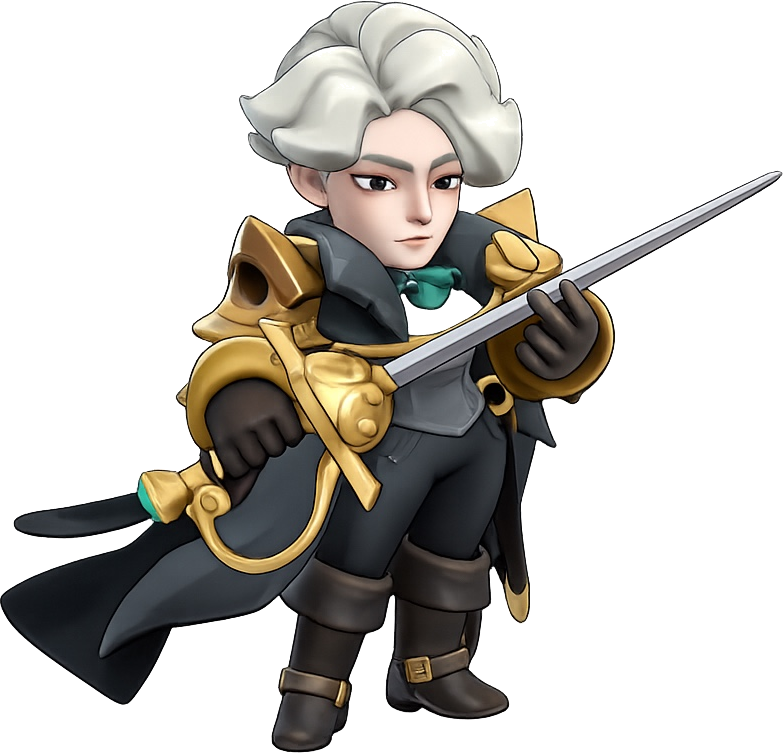
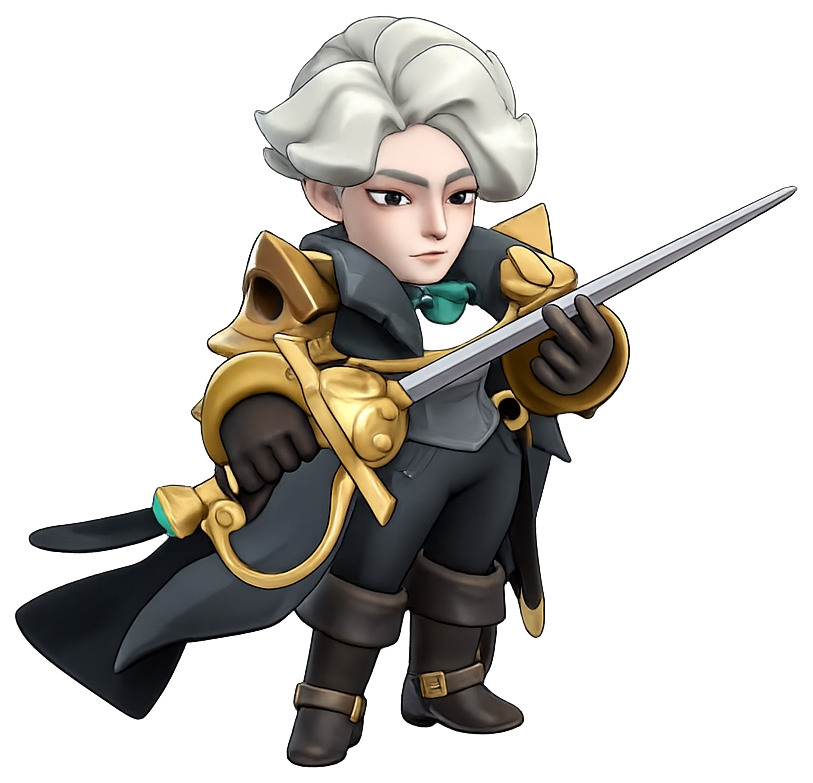
Add files via upload

Changed region(s): [[0.0, 0.0, 1.0, 1.0], [0.5211, 0.6414, 0.5517, 0.672], [0.5211, 0.4887, 0.5517, 0.5193]]

diff --git a/masters/index.html b/masters/index.html
@@ -27,7 +27,7 @@
 :root{color-scheme:dark;--bg:#06101e;--glass:rgba(15,31,51,.62);--glass2:rgba(9,22,39,.72);--line:rgba(255,255,255,.11);--text:#f7fbff;--muted:#9fb0c6;--gold:#ffc85c;--cyan:#58d6ff;--green:#6ce4ad;--red:#ff8190;--shadow:0 16px 45px rgba(0,0,0,.28);--r:18px}
 *{box-sizing:border-box}html{background:var(--bg);scroll-behavior:smooth}body{margin:0;min-height:100vh;min-height:100dvh;color:var(--text);font-family:Inter,system-ui,-apple-system,"Segoe UI",Tahoma,Arial,sans-serif;background:radial-gradient(circle at 8% 0%,rgba(88,214,255,.13),transparent 28%),radial-gradient(circle at 92% 8%,rgba(255,200,92,.12),transparent 26%),linear-gradient(160deg,#07111f,#0a1728 52%,#07111f);overflow-x:hidden}button,input,select{font:inherit}button{cursor:pointer;touch-action:manipulation}.app{width:min(100% - 22px,1280px);margin:auto;padding:12px 0 calc(18px + env(safe-area-inset-bottom))}.glass{background:var(--glass);border:1px solid var(--line);box-shadow:var(--shadow);backdrop-filter:blur(18px);-webkit-backdrop-filter:blur(18px)}
 .top{position:sticky;top:0;z-index:20;display:flex;align-items:center;justify-content:space-between;gap:12px;padding:10px 0;background:linear-gradient(var(--bg) 65%,transparent)}.top-actions{display:flex;align-items:center;gap:8px}.home-btn{width:40px;height:40px;display:grid;place-items:center;border:1px solid var(--line);border-radius:12px;background:var(--glass2);color:var(--text);text-decoration:none}.home-btn svg{width:20px;height:20px;display:block}.brand{font-weight:950;letter-spacing:.2px}.brand small{display:block;color:var(--muted);font-size:10px;margin-top:2px}.lang{width:104px;min-width:104px;height:40px;border-radius:12px;border:1px solid var(--line);background:var(--glass2);color:var(--text);padding:0 24px 0 8px;font-size:12px;font-weight:800;text-align:center;text-align-last:center;outline:none}
-.hero{display:grid;grid-template-columns:190px 1fr;align-items:center;gap:16px;border-radius:22px;padding:14px;overflow:hidden}.hero-art{height:185px;display:grid;place-items:center;background:radial-gradient(circle,rgba(255,200,92,.18),transparent 68%);border-radius:18px}.hero-art img{max-width:100%;max-height:185px;object-fit:contain}.hero h1{font-size:34px;margin:0 0 3px}.hero-sub{color:var(--gold);font-weight:850;font-size:13px}
+.hero{display:grid;grid-template-columns:190px 1fr;align-items:center;gap:16px;border-radius:22px;padding:14px;overflow:hidden}.hero-art{height:185px;display:grid;place-items:center;background:radial-gradient(circle,rgba(255,200,92,.18),transparent 68%);border-radius:18px}.hero-art img{max-width:100%;max-height:185px;object-fit:contain;object-position:center bottom}.hero h1{font-size:34px;margin:0 0 3px}.hero-sub{color:var(--gold);font-weight:850;font-size:13px}
 .layout{display:grid;grid-template-columns:minmax(0,1.4fr) minmax(300px,.6fr);gap:12px;margin-top:12px;align-items:start}.main{display:grid;gap:12px}.card{border-radius:var(--r);padding:14px}.head{display:flex;align-items:center;justify-content:space-between;gap:10px;margin-bottom:12px}.head h2{font-size:17px;margin:0}.hint{font-size:10px;color:var(--muted)}.two{display:grid;grid-template-columns:1fr 1fr;gap:10px}.field label{display:block;color:var(--muted);font-size:11px;font-weight:750;margin:0 0 6px;line-height:1.35}.field input,.field select{width:100%;height:45px;border-radius:12px;border:1px solid var(--line);background:rgba(2,13,25,.68);color:var(--text);padding:0 12px;font-size:16px;outline:none}.field input:focus,.field select:focus{border-color:var(--cyan);box-shadow:0 0 0 3px rgba(88,214,255,.10)}.level-meta{display:flex;gap:8px;margin-top:9px}.meta{flex:1;border:1px solid var(--line);border-radius:11px;padding:8px 10px;background:rgba(255,255,255,.035)}.meta span{display:block;font-size:9px;color:var(--muted);margin-bottom:3px}.meta b{font-size:14px}.gift-row{display:grid;grid-template-columns:repeat(3,1fr);gap:8px;margin-top:12px}.gift{display:grid;grid-template-columns:58px 1fr;align-items:center;gap:8px;border:1px solid var(--line);background:rgba(255,255,255,.035);border-radius:14px;padding:9px;min-width:0}.gift img{width:58px;height:58px;object-fit:contain}.gift-name{font-size:11px;font-weight:850;line-height:1.25}.gift-value{color:var(--gold);font-size:9px;margin:3px 0 6px}.gift input{width:100%;height:36px;border:1px solid var(--line);border-radius:9px;background:rgba(1,10,20,.7);color:white;padding:0 9px;font-size:16px}.metrics{display:grid;grid-template-columns:repeat(3,1fr);gap:8px;margin-top:10px}.metric{border:1px solid var(--line);background:rgba(1,12,23,.55);border-radius:12px;padding:9px 10px}.metric span{display:block;color:var(--muted);font-size:9px;margin-bottom:4px}.metric b{font-size:15px}.green{color:var(--green)}.resource{display:grid;grid-template-columns:72px 1fr;gap:10px;align-items:center}.resource>img{width:72px;height:72px;object-fit:contain}.emblem-box{display:grid;grid-template-columns:72px minmax(0,1fr);gap:10px;align-items:center;margin-top:11px;border:1px solid var(--line);background:rgba(255,255,255,.035);border-radius:14px;padding:10px}.emblem-box>img{width:72px;height:72px;object-fit:contain}.emblem-grid{display:grid;grid-template-columns:repeat(3,1fr);gap:8px}.emblem-field{grid-column:1/-1}.emblem-field label{display:block;color:var(--muted);font-size:10px;font-weight:750;margin-bottom:5px}.emblem-field input{width:100%;height:40px;border-radius:10px;border:1px solid var(--line);background:rgba(1,10,20,.7);color:white;padding:0 10px;font-size:16px}.tabs{display:grid;grid-template-columns:repeat(2,1fr);gap:7px;margin-bottom:12px}.tab{min-height:48px;border:1px solid var(--line);border-radius:11px;background:rgba(1,12,23,.55);color:var(--muted);font-weight:850;font-size:11px;padding:7px 9px;line-height:1.25}.tab.active{background:linear-gradient(135deg,rgba(255,200,92,.95),rgba(255,158,65,.9));color:#2c1b04;border-color:transparent}.skill-detail{border:1px solid var(--line);background:rgba(255,255,255,.035);border-radius:14px;padding:12px;margin:0 0 11px}.skill-detail h3{margin:0;font-size:16px;color:var(--gold)}.skill-detail p{margin:6px 0 0;color:var(--muted);font-size:11px;line-height:1.55}.gain-box{margin-top:10px;border:1px solid rgba(108,228,173,.26);background:rgba(108,228,173,.075);border-radius:12px;padding:10px 12px}.gain-box span{display:block;color:var(--muted);font-size:10px;margin-bottom:4px}.gain-box b{font-size:16px;color:var(--green)}.add{width:100%;height:41px;margin-top:10px;border:0;border-radius:11px;background:linear-gradient(135deg,#35c695,#318fdc);color:white;font-weight:900}.add.secondary{background:rgba(255,255,255,.07);border:1px solid var(--line)}
 
 
@@ -38,7 +38,7 @@
 @media(max-width:920px){.layout{grid-template-columns:1fr}.side{position:static}.plans{max-height:none}.hero{grid-template-columns:160px 1fr}.hero-art{height:160px}.hero-art img{max-height:160px}}
 @media(max-width:620px){.glass{backdrop-filter:blur(12px);-webkit-backdrop-filter:blur(12px)}.materials-panel{padding:11px}.materials-grid{grid-template-columns:1fr 1fr}.material-item{grid-template-columns:48px minmax(0,1fr);padding:8px}.material-item img{width:48px;height:48px}.material-item:last-child{grid-column:1/-1}.material-item:last-child{grid-template-columns:48px minmax(0,1fr)}.app{width:min(100% - 16px,1280px);padding-top:6px}.top{padding:7px 0}.hero{grid-template-columns:105px 1fr;padding:10px;gap:10px}.hero-art{height:120px}.hero-art img{max-height:120px}.hero h1{font-size:25px}.card{padding:11px}.gift-row{grid-template-columns:1fr}.gift{grid-template-columns:54px minmax(0,1fr) 90px}.gift img{width:54px;height:54px}.gift input{height:39px}.metrics{grid-template-columns:1fr 1fr}.metrics .metric:last-child{grid-column:1/-1}.tabs{gap:4px}.tab{font-size:10px}.footer{padding:12px 8px}.lang{width:96px;min-width:96px;font-size:11px}.home-btn{width:38px;height:38px}}
 @media(max-width:390px){.materials-grid{grid-template-columns:1fr}.material-item:last-child{grid-column:auto}.material-item{grid-template-columns:52px minmax(0,1fr)}.two{grid-template-columns:1fr}.resource{grid-template-columns:58px 1fr}.resource>img{width:58px;height:58px}.emblem-box{grid-template-columns:58px 1fr}.emblem-box>img{width:58px;height:58px}.gift{grid-template-columns:48px 1fr}.gift img{width:48px;height:48px}.gift input{grid-column:1/-1}.totals{grid-template-columns:1fr 1fr}}
-.expert-switch{display:grid;grid-template-columns:repeat(2,minmax(0,1fr));gap:10px;margin:12px 0 0;padding:10px;border-radius:20px;overflow:hidden}.expert-switch button{position:relative;display:flex;align-items:center;justify-content:center;gap:10px;min-height:58px;padding:9px 16px;border-radius:15px;border:1px solid rgba(255,255,255,.11);background:linear-gradient(145deg,rgba(255,255,255,.06),rgba(255,255,255,.025));color:#b9c8db;font-weight:900;cursor:pointer;font:inherit;transition:.2s ease;box-shadow:inset 0 1px 0 rgba(255,255,255,.04)}.expert-switch button:hover{transform:translateY(-1px);border-color:rgba(88,214,255,.35)}.expert-switch button.active{background:linear-gradient(135deg,rgba(88,214,255,.24),rgba(255,200,92,.17));border-color:rgba(88,214,255,.62);color:#fff;box-shadow:0 10px 26px rgba(0,0,0,.2),inset 0 1px 0 rgba(255,255,255,.12)}.expert-switch button.active:after{content:'';position:absolute;left:18%;right:18%;bottom:5px;height:2px;border-radius:99px;background:linear-gradient(90deg,transparent,var(--cyan),var(--gold),transparent)}.expert-switch img{width:42px;height:42px;object-fit:contain;filter:drop-shadow(0 6px 10px rgba(0,0,0,.3))}.expert-tab[data-expert="cassia"] img{width:52px;height:52px;transform:scale(1.08);transform-origin:center;object-fit:contain}@media(max-width:620px){.expert-switch{gap:7px;padding:8px}.expert-switch button{min-height:52px;padding:7px 10px;font-size:13px}.expert-switch img{width:36px;height:36px}.expert-tab[data-expert="cassia"] img{width:45px;height:45px;transform:scale(1.06)}}
+.expert-switch{display:grid;grid-template-columns:repeat(2,minmax(0,1fr));gap:10px;margin:12px 0 0;padding:10px;border-radius:20px;overflow:hidden}.expert-switch button{position:relative;display:flex;align-items:center;justify-content:center;gap:10px;min-height:58px;padding:9px 16px;border-radius:15px;border:1px solid rgba(255,255,255,.11);background:linear-gradient(145deg,rgba(255,255,255,.06),rgba(255,255,255,.025));color:#b9c8db;font-weight:900;cursor:pointer;font:inherit;transition:.2s ease;box-shadow:inset 0 1px 0 rgba(255,255,255,.04)}.expert-switch button:hover{transform:translateY(-1px);border-color:rgba(88,214,255,.35)}.expert-switch button.active{background:linear-gradient(135deg,rgba(88,214,255,.24),rgba(255,200,92,.17));border-color:rgba(88,214,255,.62);color:#fff;box-shadow:0 10px 26px rgba(0,0,0,.2),inset 0 1px 0 rgba(255,255,255,.12)}.expert-switch button.active:after{content:'';position:absolute;left:18%;right:18%;bottom:5px;height:2px;border-radius:99px;background:linear-gradient(90deg,transparent,var(--cyan),var(--gold),transparent)}.expert-switch img{width:42px;height:42px;object-fit:contain;object-position:center;filter:drop-shadow(0 6px 10px rgba(0,0,0,.3))}@media(max-width:620px){.expert-switch{gap:7px;padding:8px}.expert-switch button{min-height:52px;padding:7px 10px;font-size:13px}.expert-switch img{width:36px;height:36px}}
 .hero-identity{display:flex;flex-direction:column;justify-content:center;min-width:0}.hero-identity .hero-sub{display:inline-flex;align-items:center;width:max-content;max-width:100%;padding:8px 13px;border:1px solid rgba(255,200,92,.28);border-radius:999px;background:rgba(255,200,92,.08);box-shadow:inset 0 1px 0 rgba(255,255,255,.08);letter-spacing:.02em}.hero-identity h1{margin-bottom:10px}@media(max-width:620px){.hero-identity .hero-sub{padding:7px 10px;font-size:11px}.hero-identity h1{margin-bottom:7px}}
 </style></head><body><div class="app">
 <header class="top"><div class="brand">SaifKS Masters<small data-i18n="brandSub">KINGSHOT MASTER PLANNER</small></div><div class="top-actions"><a class="home-btn" href="../" aria-label="Home"><svg viewBox="0 0 24 24" aria-hidden="true"><path fill="currentColor" d="M12 3.2 2.8 10.6a1 1 0 0 0 1.25 1.56L5 11.4V20a1 1 0 0 0 1 1h4.2v-5.7h3.6V21H18a1 1 0 0 0 1-1v-8.6l.95.76a1 1 0 1 0 1.25-1.56L12 3.2Z"/></svg></a><select id="languageSelect" class="lang" aria-label="Language"><option value="en">English</option><option value="ar">العربية</option><option value="fr">Français</option><option value="es">Español</option><option value="de">Deutsch</option><option value="tr">Türkçe</option><option value="ko">한국어</option><option value="ja">日本語</option><option value="zh">简体中文</option></select></div></header>
